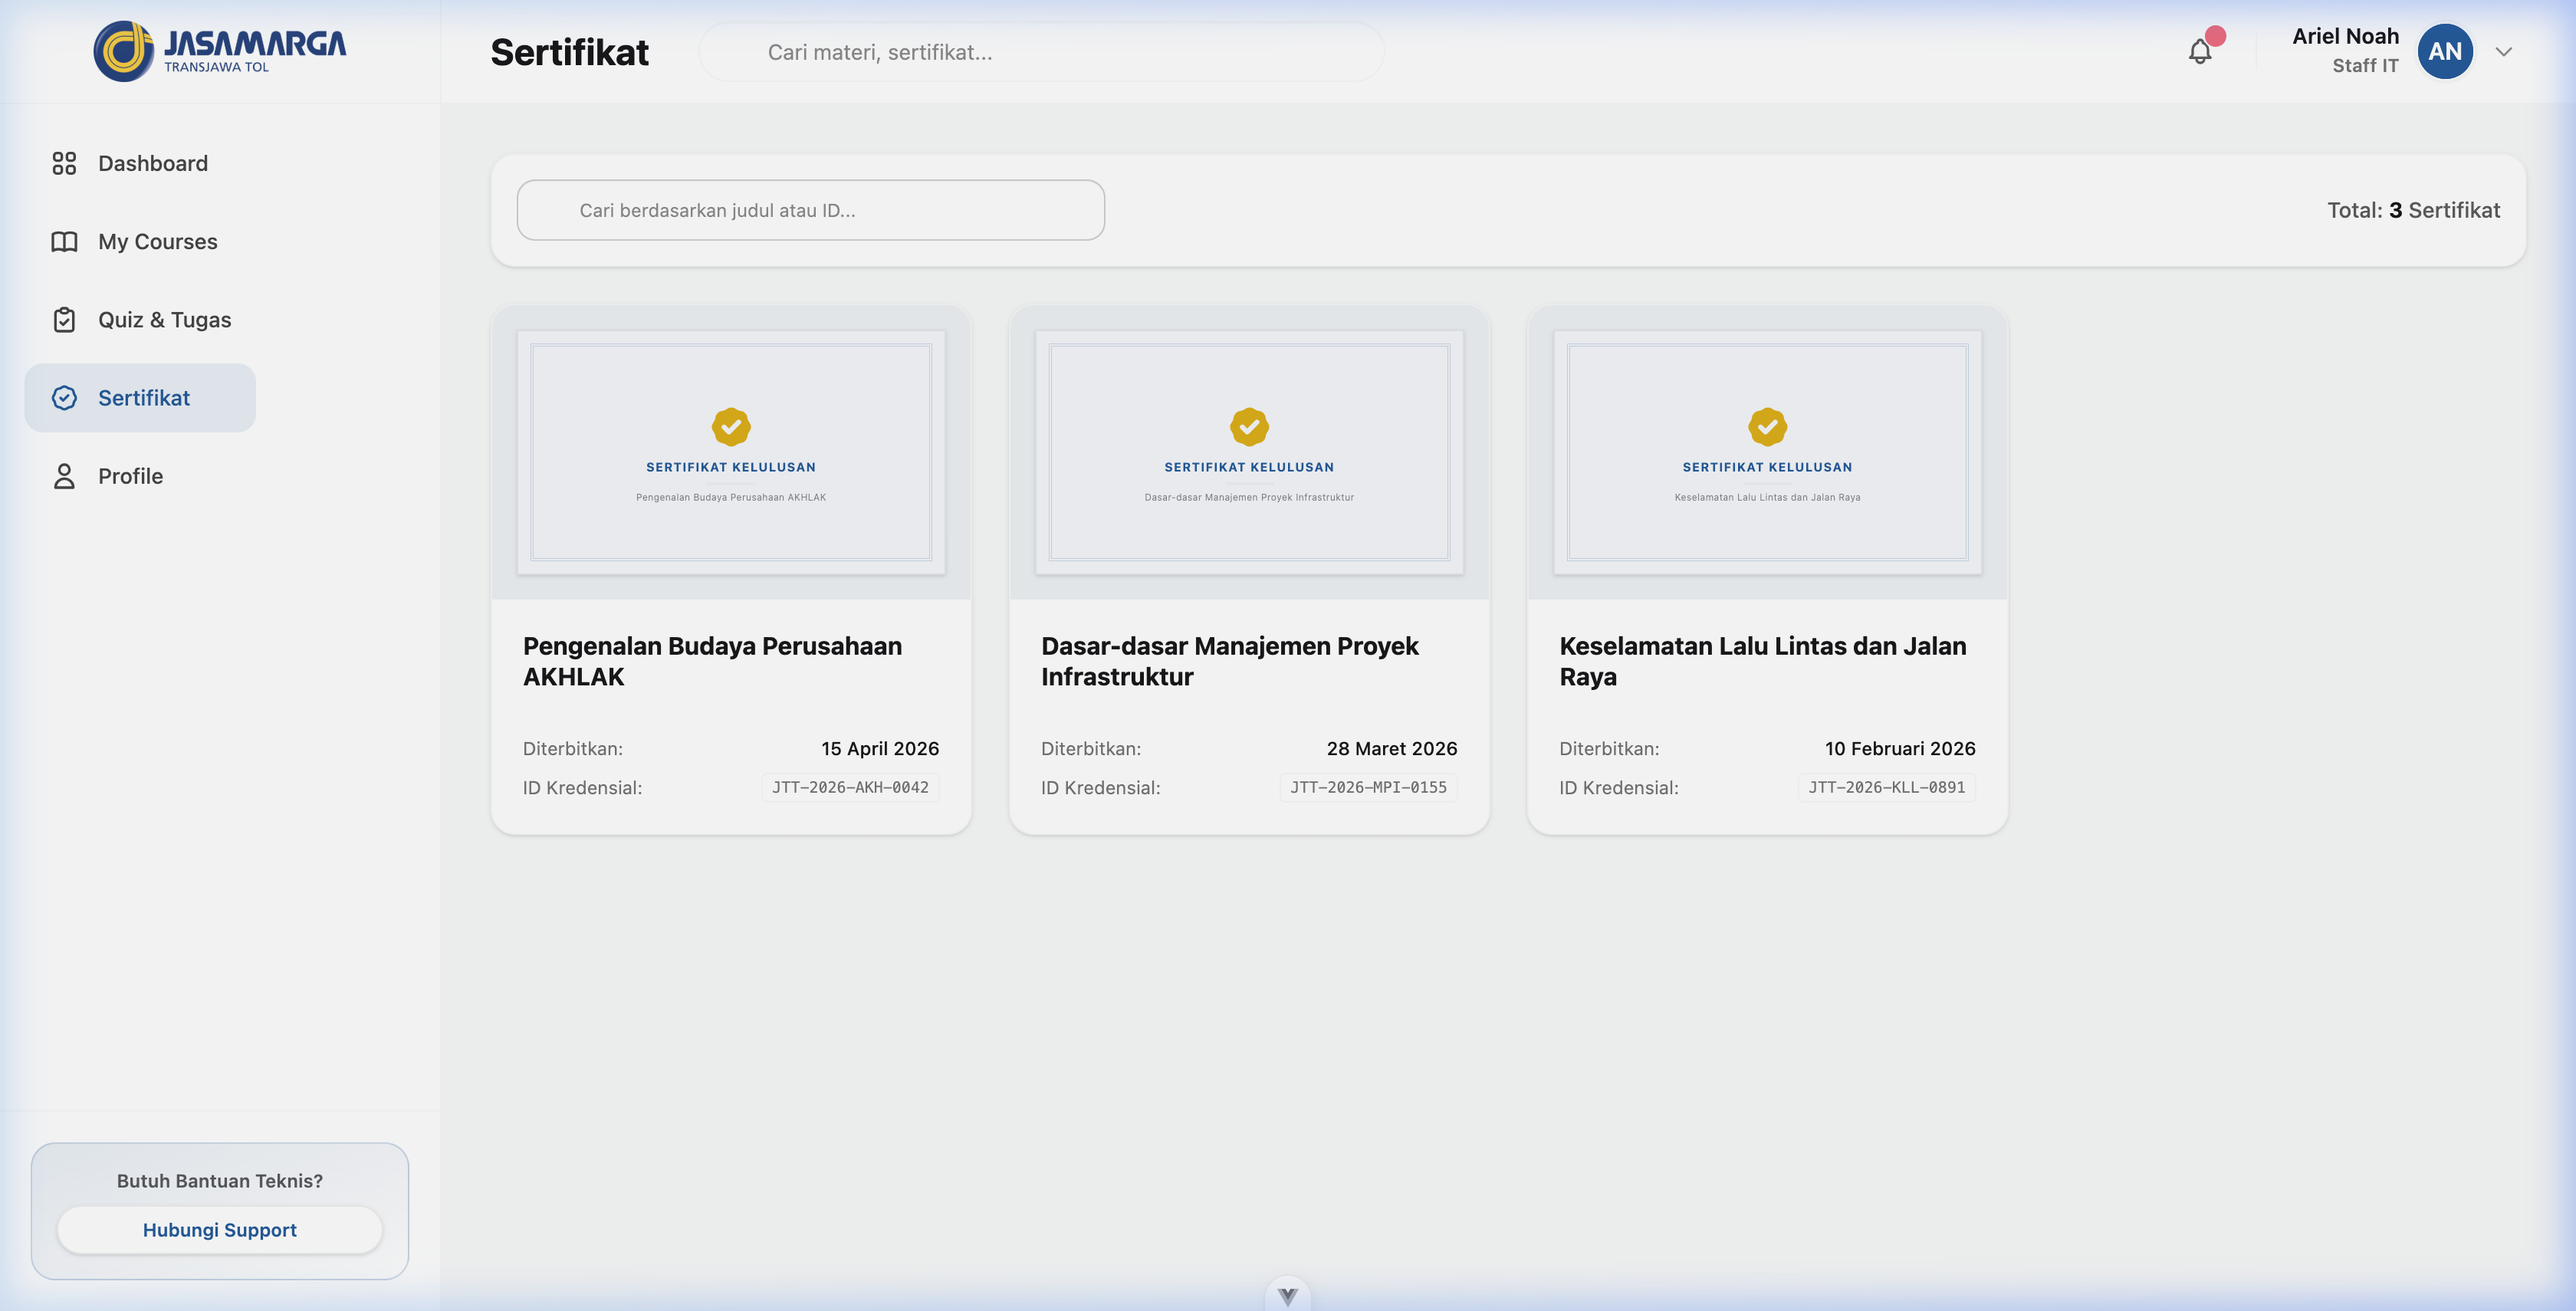
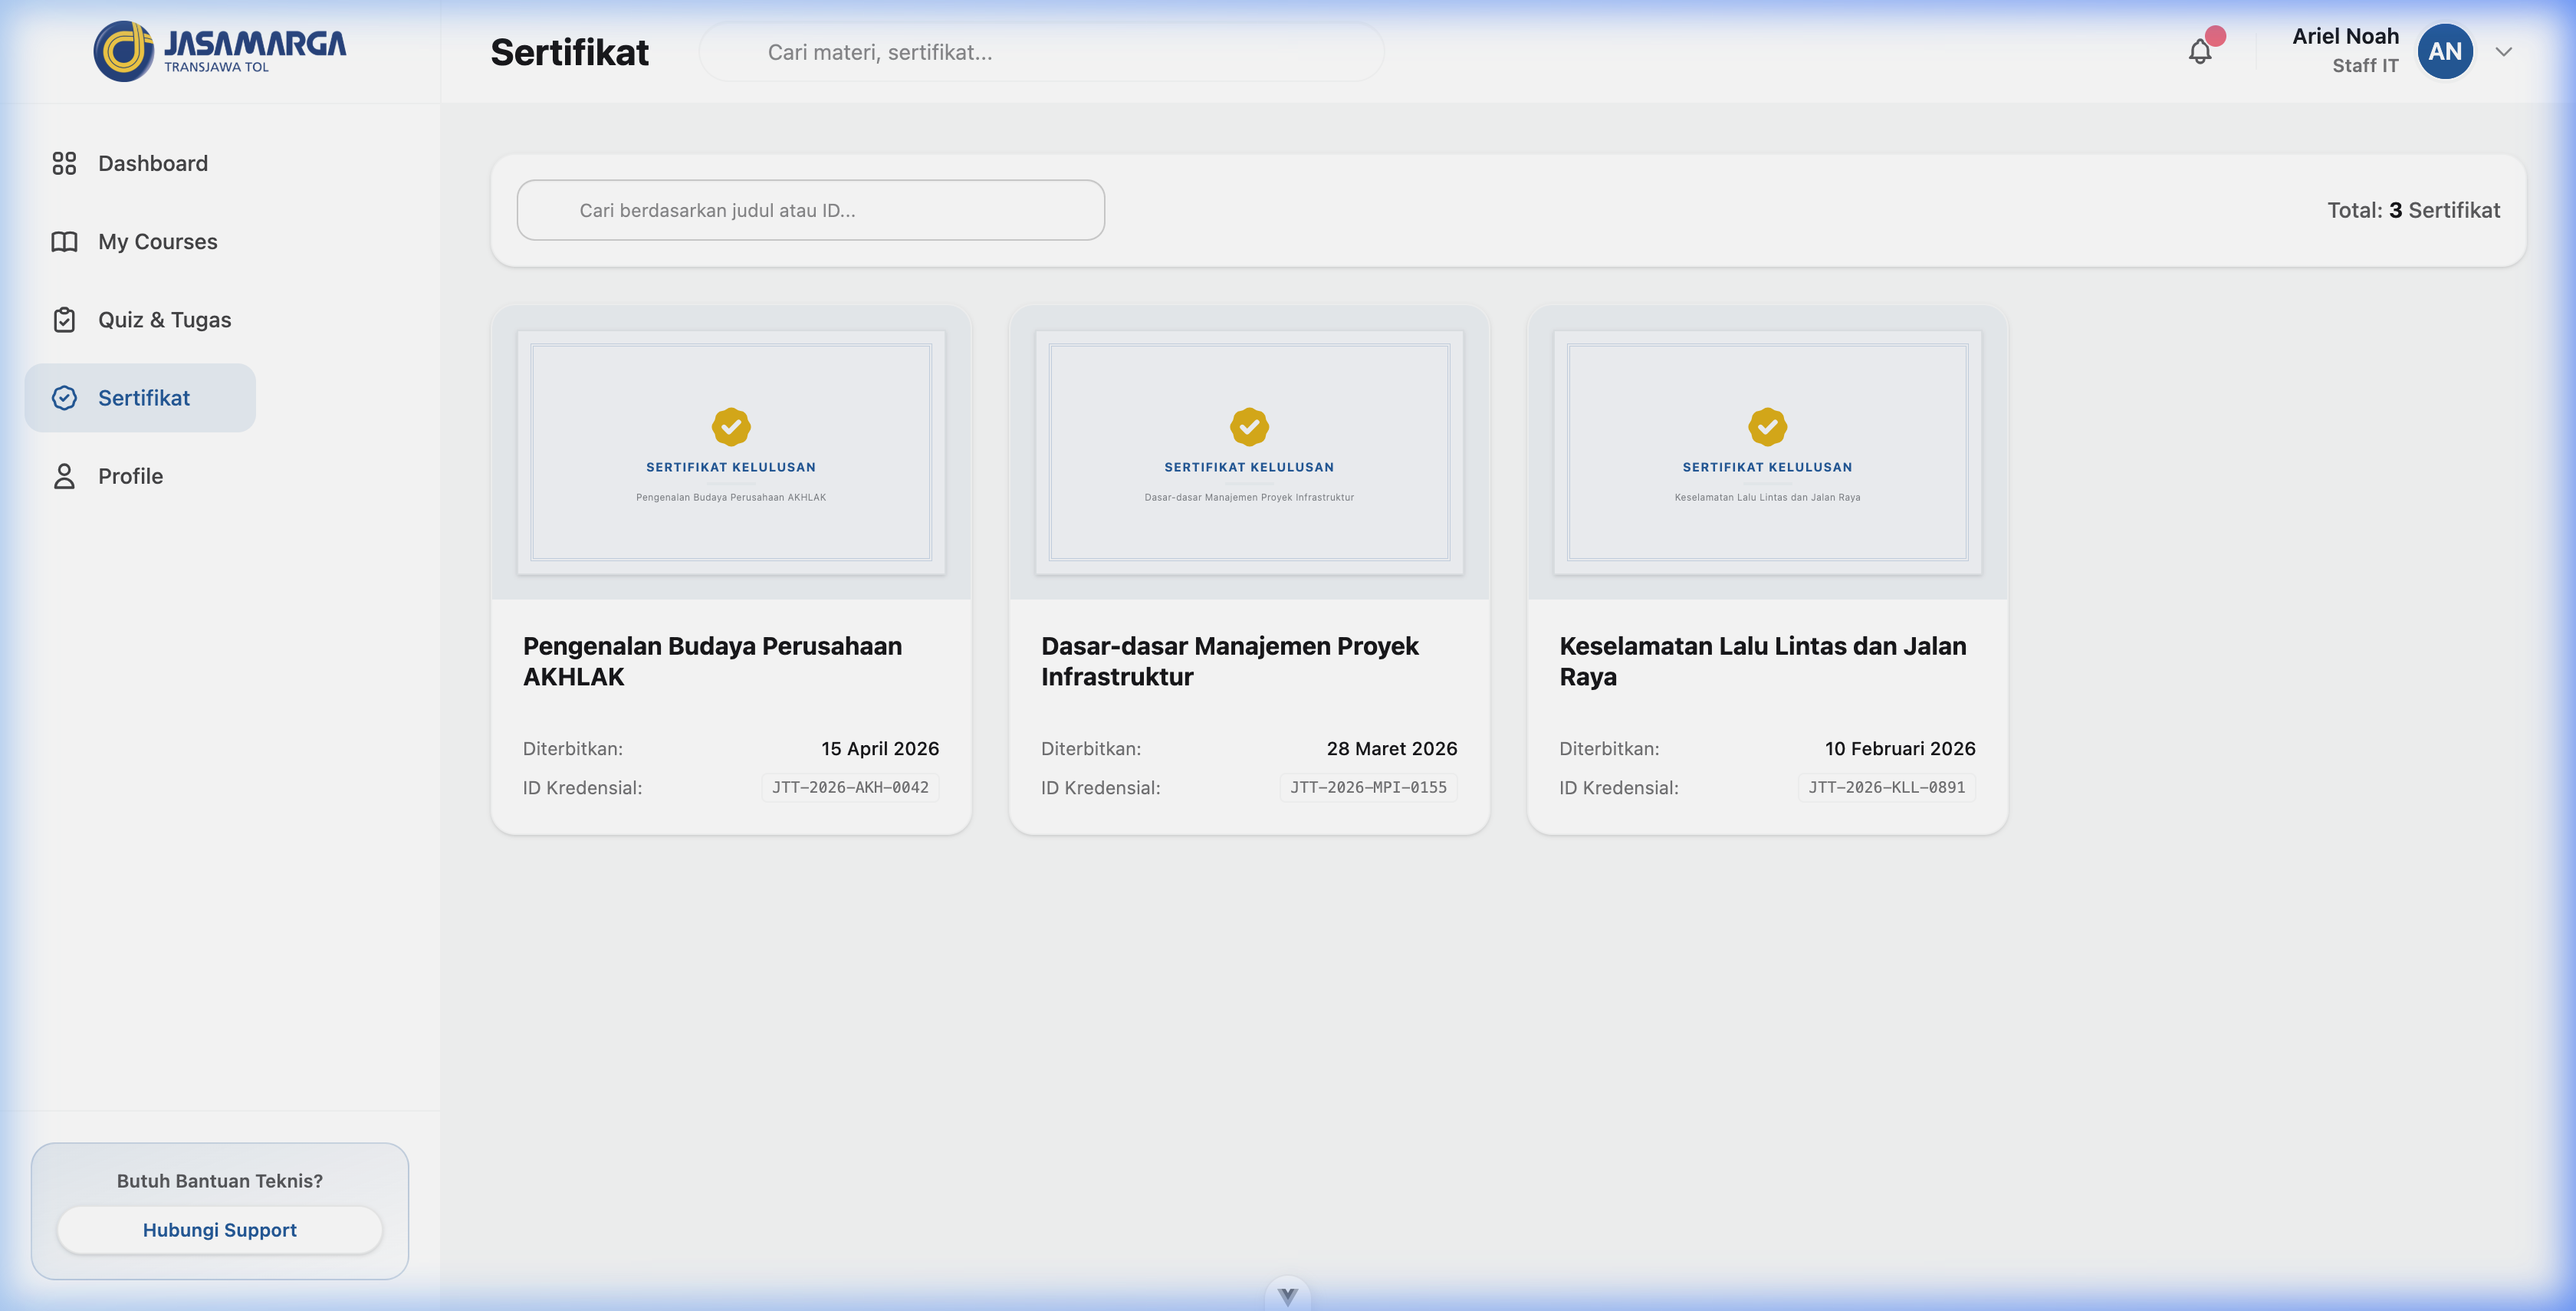
SS

Changed region(s): [[0.0, 0.0, 1.0, 1.0], [0.0, 0.0, 0.0312, 0.031]]

diff --git a/README.md b/README.md
@@ -1,11 +1,14 @@
 # JM LiNX - Frontend
 
 ### Preview
-
 ![Login](./public/screenshots/login.png)
 ![Dashboard](./public/screenshots/dashboard.png)
 ![Courses](./public/screenshots/courses.png)
+![Course Detail](./public/screenshots/course_detail.png)
 ![Assignments](./public/screenshots/assignments.png)
+![Assignment Detail](./public/screenshots/assignment_detail.png)
+![Certificates](./public/screenshots/certificates.png)
+![Certificate Detail](./public/screenshots/certificate_detail.png)
 
 ### Setup
 
